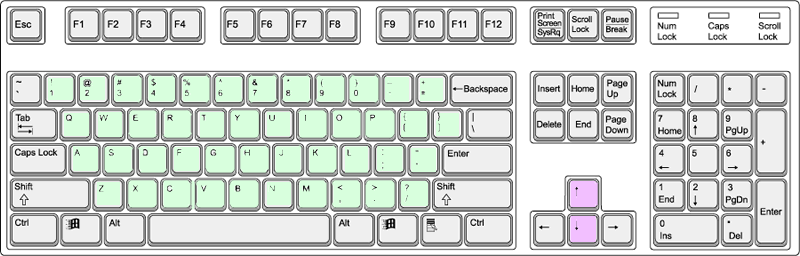
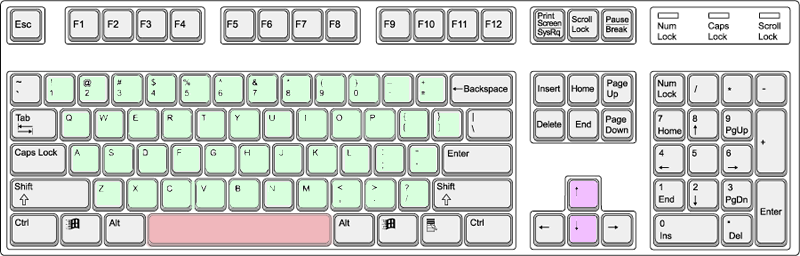
jam !

Changed region(s): [[0.1562, 0.8125, 0.4375, 0.9688]]

diff --git a/public/index.html b/public/index.html
@@ -39,7 +39,7 @@
 <strong>MIDI Notes : </strong>{{note}}
 <p class = "controls">
  <p>
-  <button class="btn-large red" ng-click='rec();'>{{recording}}</button> <span ng-class="{'rec': recording, 'play': pos}" ng-show="time">{{time}}</span>
+  <button class="btn-large red" ng-click='rec();' ng-disabled='!stopped'>{{recording}}</button> <span ng-class="{'rec': recording, 'play': pos}" ng-show="time">{{time}}</span>
   <label class="play">Play:</label>
   <button class="btn-large" ng-click="start()">Start</button>
   <button class="btn-large" ng-click="stop()">Stop</button>

diff --git a/public/js/app.js b/public/js/app.js
@@ -93,6 +93,7 @@ function myController($scope, $timeout, $http) {
   $scope.init = function () {
   	 $scope.get_midioutlist();
     $scope.changeSnd();
+    $scope.stopped = true;
   };
 
   $scope.steps = keys;
@@ -161,6 +162,9 @@ function myController($scope, $timeout, $http) {
         var sel = $('#' + $scope.mode[value]); 
         sel.addClass("col");
       })
+    };
+    if (theKey == 32 && $scope.stopped) {
+      $scope.rec();
     };    
     var key = $scope.mode[theKey];
     if(key){ 

diff --git a/README.md b/README.md
@@ -1,4 +1,4 @@
-# jam-midi ![jam-midi](http://i.imgur.com/iq96iSh.png)
+# jam-midi ![jam-midi](http://i.imgur.com/uN7xa7t.png)
 
 
 ### AngularJS computer keyboard piano maintained MongoDB
@@ -7,7 +7,7 @@
 jam is shortcut for **J**azz **A**ngularJS **M**ongoDB
 
 
-![jam-midi](http://i.imgur.com/cuwijTX.jpg)
+![jam-midi](http://i.imgur.com/UuWVfB7.jpg)
 
 
 API reference is available at http://jazz-soft.net/doc/Jazz-Plugin/reference.html
